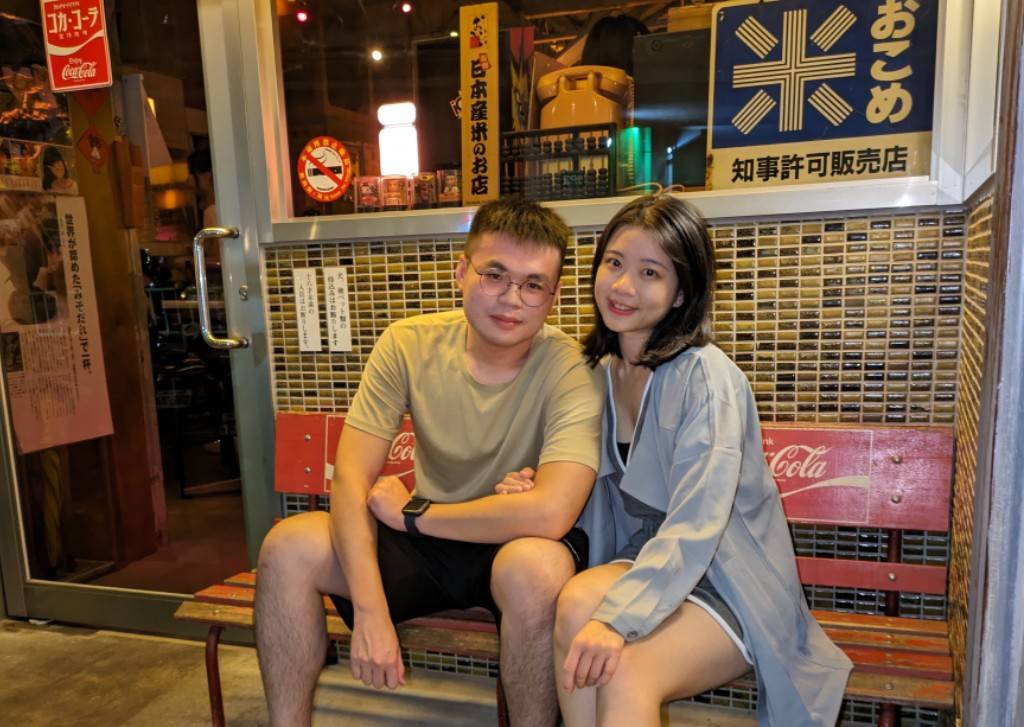
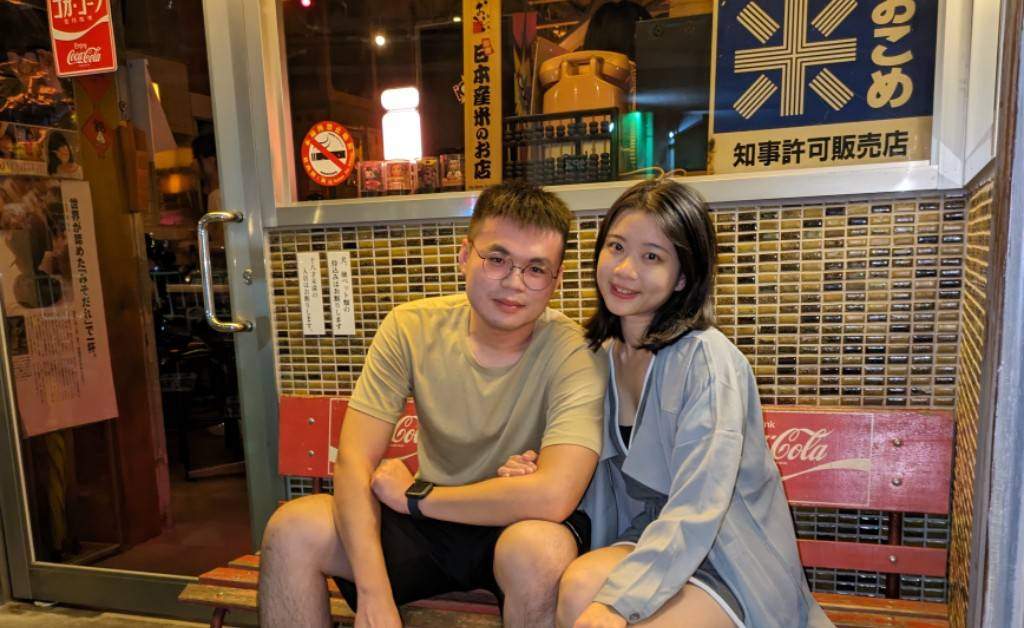
third edition

diff --git a/pages/index.html b/pages/index.html
@@ -11,9 +11,9 @@
 
     <div class="container">
       <div class="card">
-        <h2>North</h2>
+        <h2>CARD</h2>
         <i class="fas fa-arrow-right"></i>
-        <p>a lonely trip.</p>
+        <p>You light up my way.</p>
         <div class="pic"></div>
         <ul>
           <li></li>
@@ -50,7 +50,7 @@
         </button>
       </div>
         <div class="card card2">
-        <h2>Vauxhall</h2>
+        <h2>GIFT</h2>
         <i class="fas fa-arrow-right"></i>
         <p>a lonely trip.</p>
         <div class="pic"></div>

diff --git a/assets/scss/pages/_index.scss b/assets/scss/pages/_index.scss
@@ -2,7 +2,7 @@ $bg-color: #E6E5E1;
 $shdow-gray: #d3d3d5;
 $orange: #DA4D1D;
 $blue: #2b26c3;
-$img-url: "https://images.unsplash.com/photo-1525543907410-b2562b6796d6?ixlib=rb-0.3.5&s=9ff8e5e718a6a40cbd0e1471235912f4&auto=format&fit=crop&w=3452&q=80";
+$img-url: "https://github.com/MinMinTW/anniversary-card/blob/main/assets/images/us1.jpg?raw=true";
 $img-url2: "https://images.unsplash.com/photo-1528785198459-ec50485704c7?ixlib=rb-0.3.5&s=3a2fc3039516555bbb2e9cd2967bd321&auto=format&fit=crop&w=1537&q=80";
 
 * {
